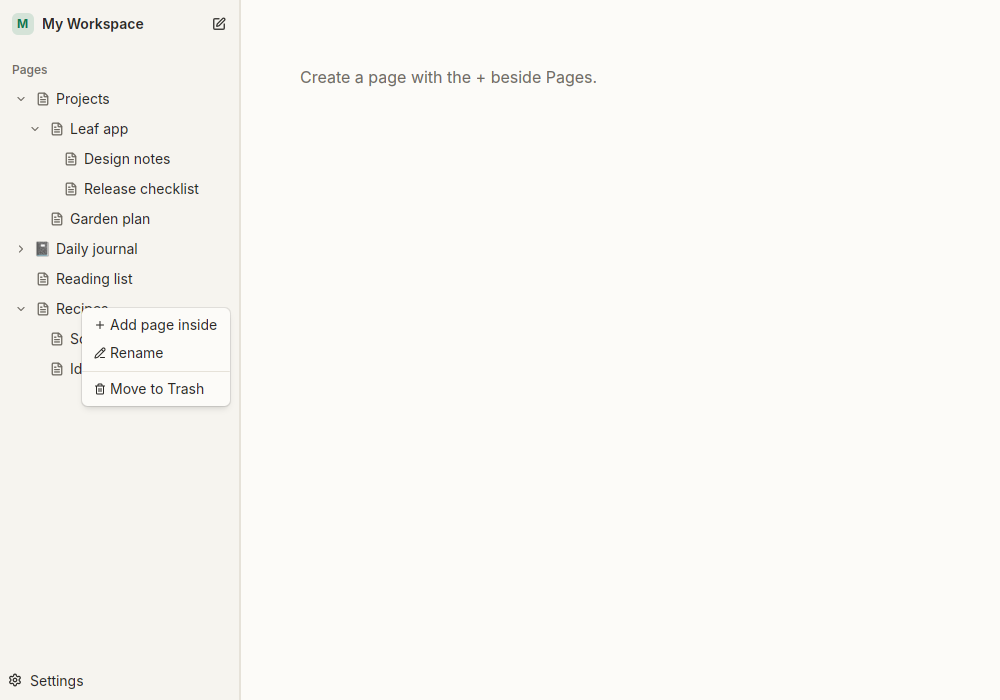
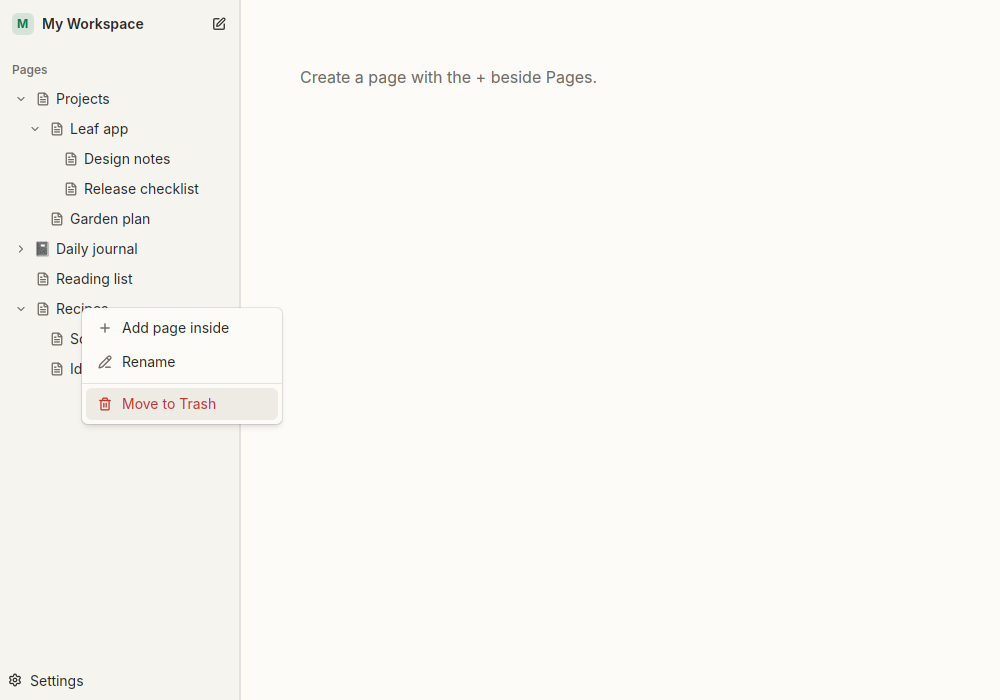
E06-S10: red Move to Trash, roomier right-click menu
Adds a danger colour to the palette (contrast-tested on the page and on a
hovered row in both modes) and draws the menu rows at 32 px in a 200 px menu.

Claude-Session: https://claude.ai/code/session_01FE83SUz47aM6kMvQJcKu32

Changed region(s): [[0.093, 0.45, 0.248, 0.6], [0.217, 0.51, 0.248, 0.54]]

diff --git a/crates/leaf-ui/src/shell/tree/row.rs b/crates/leaf-ui/src/shell/tree/row.rs
@@ -238,32 +238,52 @@ impl Shell {
     }
 }
 
-/// The row's right-click menu.
+/// The row's right-click menu: roomy rows with an icon each, and the one that removes the page in red.
 fn page_menu(menu: PopupMenu, shell: &WeakEntity<Shell>, page: PageId) -> PopupMenu {
     let (inside, rename, trash) = (shell.clone(), shell.clone(), shell.clone());
     // The shell outlives its rows; if it is gone the window is closing anyway.
-    menu.item(
-        PopupMenuItem::new("Add page inside")
-            .icon(IconName::Plus)
-            .on_click(move |_, window, cx| {
+    menu.min_w(px(MENU_WIDTH))
+        .item(
+            menu_row(IconName::Plus, "Add page inside", false).on_click(move |_, window, cx| {
                 let _ = inside.update(cx, |shell, cx| shell.new_page_inside(page, window, cx));
             }),
-    )
-    .item(
-        PopupMenuItem::new("Rename")
-            .icon(IconName::PencilLine)
-            .on_click(move |_, window, cx| {
+        )
+        .item(
+            menu_row(IconName::PencilLine, "Rename", false).on_click(move |_, window, cx| {
                 let _ = rename.update(cx, |shell, cx| shell.start_rename(page, window, cx));
             }),
-    )
-    .separator()
-    .item(
-        PopupMenuItem::new("Move to Trash")
-            .icon(IconName::Trash)
-            .on_click(move |_, _, cx| {
+        )
+        .separator()
+        .item(
+            menu_row(IconName::Trash, "Move to Trash", true).on_click(move |_, _, cx| {
                 let _ = trash.update(cx, |shell, cx| shell.trash_page(page, cx));
             }),
-    )
+        )
+}
+
+/// Width of the right-click menu, in pixels: room for the labels without crowding them.
+const MENU_WIDTH: f32 = 200.0;
+
+/// Height of a right-click menu row, in pixels; taller than the widget's default for an easier target.
+const MENU_ROW_HEIGHT: f32 = 32.0;
+
+/// One right-click menu row: icon and label, both red when it removes something.
+fn menu_row(icon: IconName, label: &'static str, danger: bool) -> PopupMenuItem {
+    PopupMenuItem::element(move |_, cx| {
+        let theme = cx.theme();
+        let (text, icon_colour) = if danger {
+            (theme.danger, theme.danger)
+        } else {
+            (theme.popover_foreground, theme.muted_foreground)
+        };
+        h_flex()
+            .h(px(MENU_ROW_HEIGHT))
+            .px_1()
+            .gap_2p5()
+            .text_color(text)
+            .child(Icon::new(icon).small().text_color(icon_colour))
+            .child(label)
+    })
 }
 
 /// A 2 px accent line across a row, placed by the caller.

diff --git a/crates/leaf-ui/src/theme.rs b/crates/leaf-ui/src/theme.rs
@@ -74,6 +74,8 @@ pub struct Palette {
     pub code: &'static str,
     /// A faint green wash, for gentle emphasis such as a focused row.
     pub accent_soft: &'static str,
+    /// Red for actions that remove things (Move to Trash), readable on the page and on a hovered row.
+    pub danger: &'static str,
 }
 
 /// Warm paper. The accent is the icon's #16A970, deepened so text in it meets WCAG AA on the page.
@@ -93,6 +95,7 @@ pub const LIGHT: Palette = Palette {
     on_accent: "#FFFFFF",
     code: "#F3F1EC",
     accent_soft: "#E3F4EB",
+    danger: "#C2362E",
 };
 
 /// Soft charcoal, warm like the light mode, with the green brightened to stay readable.
@@ -112,6 +115,7 @@ pub const DARK: Palette = Palette {
     on_accent: "#0F1D16",
     code: "#252422",
     accent_soft: "#1E3A2E",
+    danger: "#FF7B72",
 };
 
 /// The bundled font files, embedded so Leaf needs nothing installed. Inter is under the SIL Open Font
@@ -204,6 +208,7 @@ fn config(mode: ThemeMode, p: &Palette) -> ThemeConfig {
     colors.secondary_hover = c(p.active);
     colors.secondary_active = c(p.active);
     colors.secondary_foreground = c(p.text);
+    colors.danger = c(p.danger);
     colors.link = c(p.accent);
     colors.link_hover = c(p.accent_hover);
     colors.link_active = c(p.accent_hover);

diff --git a/crates/leaf-ui/src/theme/tests.rs b/crates/leaf-ui/src/theme/tests.rs
@@ -47,6 +47,8 @@ fn readable_pairs(p: &Palette) -> Vec<(&'static str, &'static str, &'static str,
         ("accent on soft accent", p.accent, p.accent_soft, 4.5),
         ("button text", p.on_accent, p.accent, 4.5),
         ("button text, hovered", p.on_accent, p.accent_hover, 4.5),
+        ("remove actions on page", p.danger, p.page, 4.5),
+        ("remove actions on hovered menu row", p.danger, p.hover, 4.5),
         ("caret", p.caret, p.page, 3.0),
         ("placeholder", p.faint, p.page, 2.5),
     ]
@@ -119,6 +121,7 @@ fn configs_carry_the_tokens() {
     assert_eq!(light.colors.background.as_deref(), Some(LIGHT.page));
     assert_eq!(dark.colors.background.as_deref(), Some(DARK.page));
     assert_eq!(light.colors.selection.as_deref(), Some(LIGHT.selection));
+    assert_eq!(dark.colors.danger.as_deref(), Some(DARK.danger));
     assert_eq!(light.font_family.as_deref(), Some(UI_FONT));
 }
 

diff --git a/backlog/stories/E06-S10.md b/backlog/stories/E06-S10.md
@@ -21,6 +21,7 @@ Pages heading. Owner's request after E06-S03.
 ## Acceptance criteria
 
 - [x] Context menu items have icons: plus (Add page inside), pencil (Rename), trash (Move to Trash)
+- [x] Move to Trash is red (new `danger` theme colour, WCAG AA in both modes); roomier menu (wider, taller rows)
 - [x] Sidebar header: workspace badge (initial on a soft accent square) and name, with a compose (new page) icon button
 - [x] "Pages" section heading with a "+" icon button that adds a top-level page; tooltips on icon buttons
 - [x] Rows show a page icon when the page has no emoji, and a "+" on hover that adds a page inside
